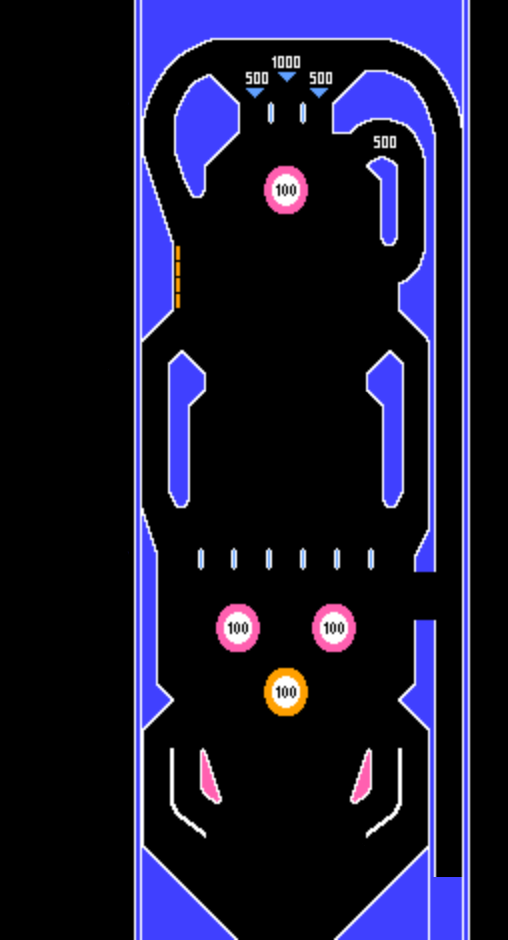
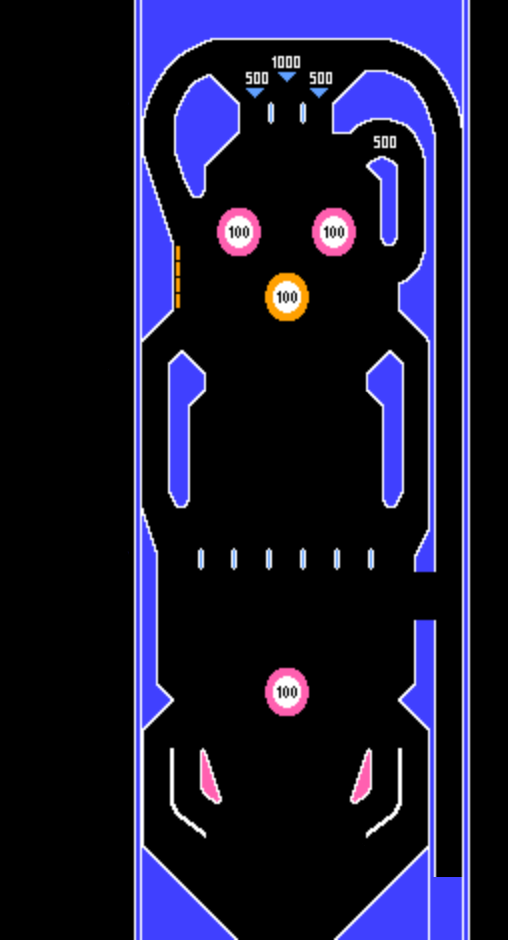
Moved bouncers, Spring sprite, Mouse joint

diff --git a/Pinball-IsekaiPhysics/ModulePhysics.cpp b/Pinball-IsekaiPhysics/ModulePhysics.cpp
@@ -339,7 +339,7 @@ PhysBody* ModulePhysics::CreateBouncer(int x, int y, int radius)
 
 	b2FixtureDef fixture;
 	fixture.shape = &shape;
-	fixture.restitution = 5;
+	fixture.restitution = 3;
 	b->CreateFixture(&fixture);
 
 	PhysBody* bouncer = new PhysBody();
@@ -429,22 +429,75 @@ update_status ModulePhysics::PostUpdate()
 				break;
 			}
 
-			// TODO 1: If mouse button 1 is pressed ...
-			// App->input->GetMouseButton(SDL_BUTTON_LEFT) == KEY_DOWN
-			// test if the current body contains mouse position
+			if (App->input->GetMouseButton(SDL_BUTTON_LEFT) == KEY_DOWN)
+			{
+				// test if the current body contains mouse position
+				b2Vec2 p = { PIXEL_TO_METERS(App->input->GetMouseX()), PIXEL_TO_METERS(App->input->GetMouseY()) };
+				if (f->GetShape()->TestPoint(b->GetTransform(), p) == true)
+				{
+
+					// If a body was selected, create a mouse joint
+					// using mouse_joint class property
+
+					// NOTE: you do TODO2 here or also in the original handout's location. 
+					// It doesn't matter unless you are triggering several objects at once;
+					// I leave it to you to add safety checks to avoid re-defining several mouse joints.
+
+					// The variable "b2Body* mouse_body;" is defined in the header ModulePhysics.h 
+					// We need to keep this body throughout several game frames; you cannot define it as a local variable here. 
+					mouse_body = b;
+
+					// Get current mouse position
+					b2Vec2 mousePosition;
+					mousePosition.x = p.x;
+					mousePosition.y = p.y;
+
+					// Define new mouse joint
+					b2MouseJointDef def;
+					def.bodyA = ground; // First body must be a static ground
+					def.bodyB = mouse_body; // Second body will be the body to attach to the mouse
+					def.target = mousePosition; // The second body will be pulled towards this location
+					def.dampingRatio = 0.5f; // Play with this value
+					def.frequencyHz = 2.0f; // Play with this value
+					def.maxForce = 200.0f * mouse_body->GetMass(); // Play with this value
+
+					// Add the new mouse joint into the World
+					mouse_joint = (b2MouseJoint*)world->CreateJoint(&def);
+				}
+			}
 		}
 	}
 
-	// If a body was selected we will attach a mouse joint to it
-	// so we can pull it around
-	// TODO 2: If a body was selected, create a mouse joint
-	// using mouse_joint class property
-
-
-	// TODO 3: If the player keeps pressing the mouse button, update
+	// If the player keeps pressing the mouse button, update
 	// target position and draw a red line between both anchor points
+	if (mouse_body != nullptr && mouse_joint != nullptr)
+	{
+		if (App->input->GetMouseButton(SDL_BUTTON_LEFT) == KEY_REPEAT)
+		{
+			// Get new mouse position and re-target mouse_joint there
+			b2Vec2 mousePosition;
+			mousePosition.x = PIXEL_TO_METERS(App->input->GetMouseX());
+			mousePosition.y = PIXEL_TO_METERS(App->input->GetMouseY());
+			mouse_joint->SetTarget(mousePosition);
 
-	// TODO 4: If the player releases the mouse button, destroy the joint
+			// Draw a red line between both anchor points
+			App->renderer->DrawLine(METERS_TO_PIXELS(mouse_body->GetPosition().x), METERS_TO_PIXELS(mouse_body->GetPosition().y), App->input->GetMouseX(), App->input->GetMouseY(), 255, 0, 0);
+		}
+	}
+
+	//If the player releases the mouse button, destroy the joint
+	if (mouse_body != nullptr && mouse_joint != nullptr)
+	{
+		if (App->input->GetMouseButton(SDL_BUTTON_LEFT) == KEY_UP)
+		{
+			// Tell Box2D to destroy the mouse_joint
+			world->DestroyJoint(mouse_joint);
+
+			// DO NOT FORGET THIS! We need it for the "if (mouse_body != nullptr && mouse_joint != nullptr)"
+			mouse_joint = nullptr;
+			mouse_body = nullptr;
+		}
+	}
 
 	return UPDATE_CONTINUE;
 }

diff --git a/Pinball-IsekaiPhysics/ModuleSceneIntro.cpp b/Pinball-IsekaiPhysics/ModuleSceneIntro.cpp
@@ -29,7 +29,7 @@ bool ModuleSceneIntro::Start()
 	ball_tex = App->textures->Load("pinball/ball.png"); 
 	spinner_tex = App->textures->Load("pinball/spinner.png");
 	fondo = App->textures->Load("pinball/pinball.png");
-	//spring = App->textures->Load("pinball/pinball.png");
+	spring = App->textures->Load("pinball/spring.png");
 	bonus_fx = App->audio->LoadFx("pinball/bonus.wav");
 
 	CreateMap();
@@ -42,11 +42,13 @@ bool ModuleSceneIntro::Start()
 	App->physics->spinners[1] = App->physics->CreateSpinner(332, 399, 50, 14, false);
 	App->physics->spinners[2] = App->physics->CreateSpinner(238, 854, 50, 14, true);
 	App->physics->spinners[3] = App->physics->CreateSpinner(332, 854, 50, 14, false);
-	bouncer[0] = App->physics->CreateBouncer(287, 190, 24);
-	bouncer[1] = App->physics->CreateBouncer(240, 628, 24);
-	bouncer[2] = App->physics->CreateBouncer(287, 692, 24);
-	bouncer[3] = App->physics->CreateBouncer(334, 628, 24);
 
+	bouncer[0] = App->physics->CreateBouncer(287, 692, 24);
+	bouncer[1] = App->physics->CreateBouncer(240, 232, 24);
+	bouncer[2] = App->physics->CreateBouncer(287, 296, 24);
+	bouncer[3] = App->physics->CreateBouncer(334, 232, 24);
+
+	//692
 	py = App->physics->spring->body->GetPosition().y;
 
 	return ret;
@@ -169,6 +171,8 @@ update_status ModuleSceneIntro::Update()
 update_status ModuleSceneIntro::PostUpdate()
 {
 	App->renderer->Blit(ball_tex, METERS_TO_PIXELS(ball->body->GetPosition().x - 10), METERS_TO_PIXELS(ball->body->GetPosition().y - 10));
+
+	App->renderer->Blit(spring, METERS_TO_PIXELS(App->physics->spring->body->GetPosition().x - 12), METERS_TO_PIXELS(App->physics->spring->body->GetPosition().y - 6));
 
 	for (size_t i = 0; i < 4; i++)
 	{

diff --git a/Pinball-IsekaiPhysics/ModulePhysics.h b/Pinball-IsekaiPhysics/ModulePhysics.h
@@ -76,7 +76,10 @@ private:
 
 	bool debug;
 	b2World* world;
-	b2MouseJoint* mouse_joint;
 	b2Body* ground;
+
+	// Mouse joint
+	b2MouseJoint* mouse_joint;
+	b2Body* mouse_body;
 
 };
